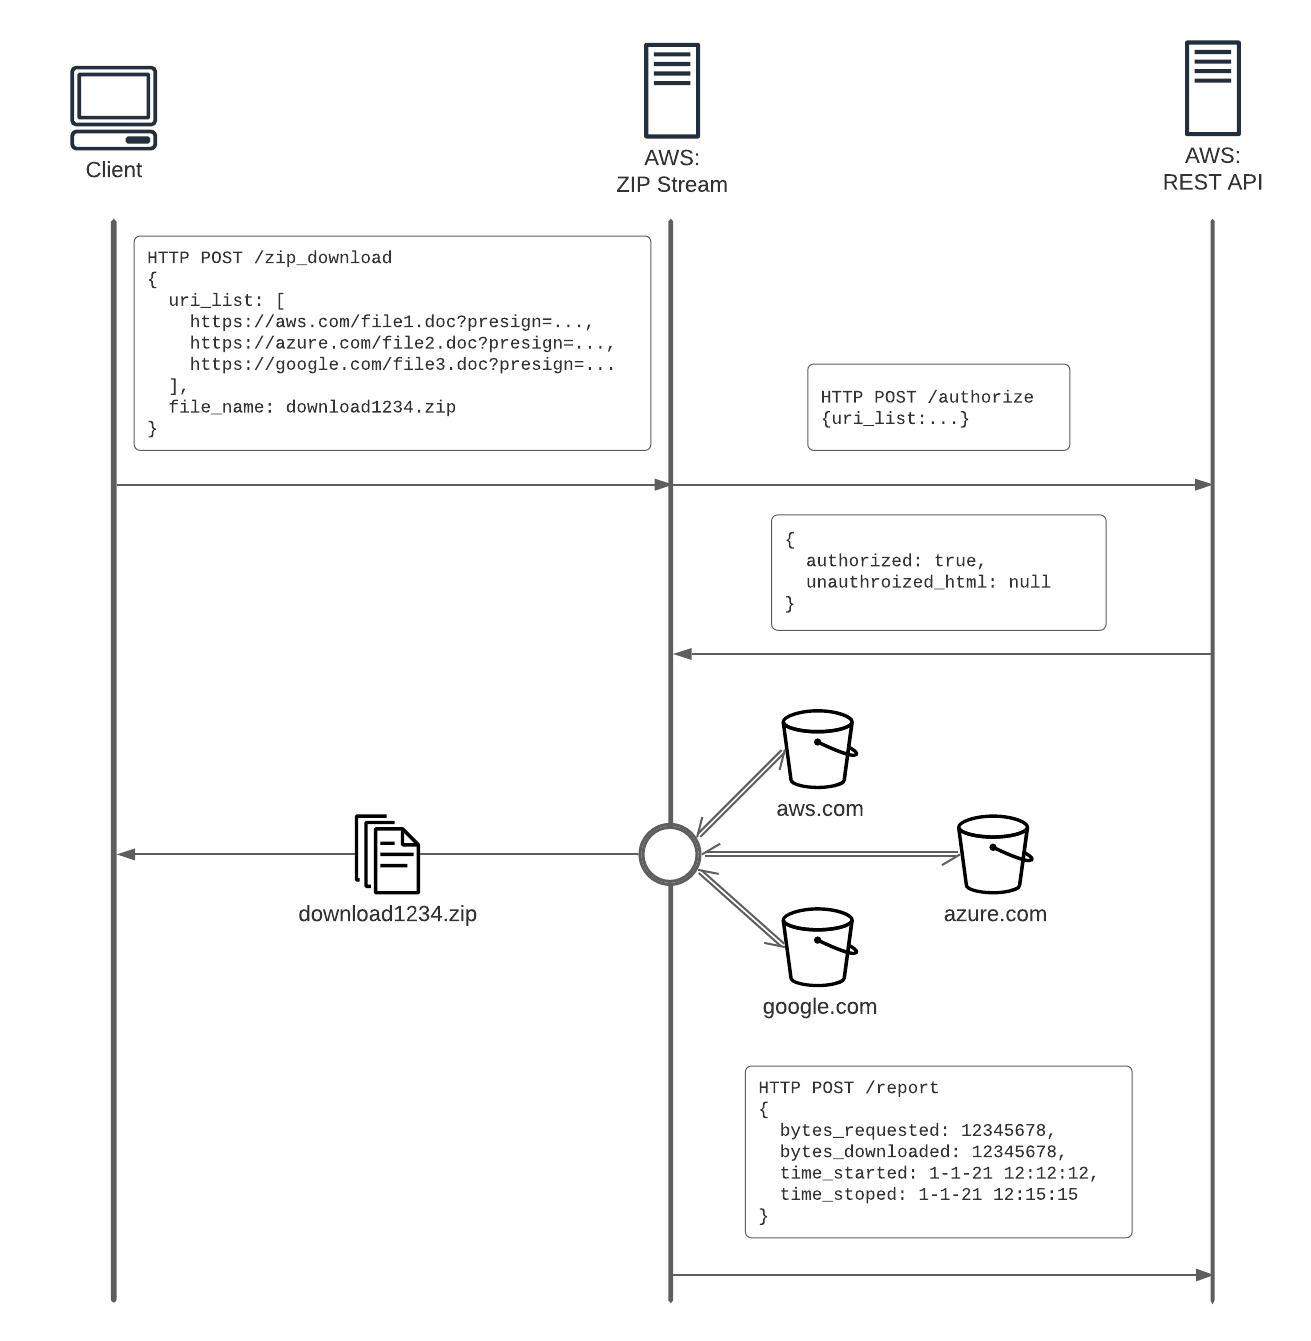
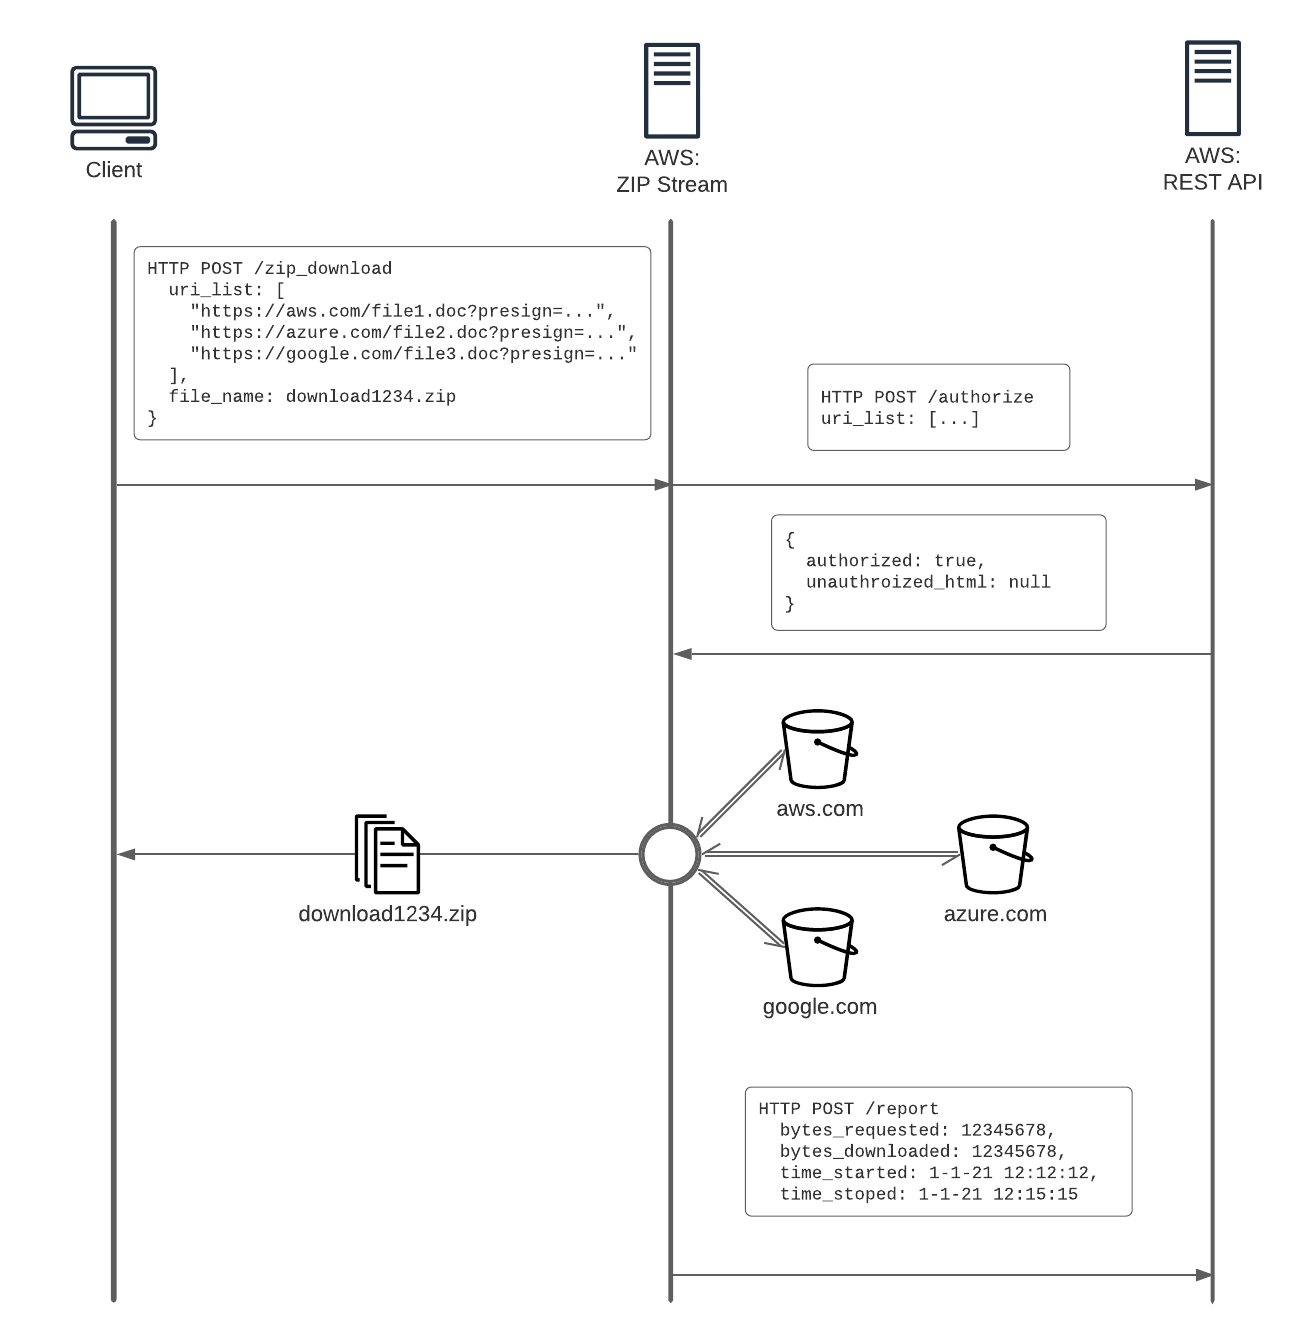
form params, request checks, static test

diff --git a/test/static/test.html b/test/static/test.html
@@ -1,0 +1,17 @@
+<!DOCTYPE html>
+<html>
+<head>
+  <meta charset="utf-8"/>
+  <title>FileSlide Streamer Test</title>
+</head> 
+<body>
+  <form action="http://127.0.0.1:9292/download" accept-charset="UTF-8" method="post">
+    <input type="hidden" name="file_name" id="file_name" value="test_zip.zip" />
+    <input type="hidden" name="uri_list" id="uri_list" value="[
+        &quot;https://s3.wasabisys.com/fs-zip-download/Test1.pdf&quot;,
+        &quot;https://s3.wasabisys.com/fs-zip-download/Test2.pkg&quot;,
+        &quot;https://s3.wasabisys.com/fs-zip-download/Test3.dmg&quot;
+      ]" /> 
+    <input type="submit" value="Download"/>
+  </form>
+</body>

diff --git a/test/spec/lib/fileslide_streamer_spec.rb b/test/spec/lib/fileslide_streamer_spec.rb
@@ -10,7 +10,7 @@ RSpec.describe FileslideStreamer do
     file_provider_app = File.expand_path(__dir__ + '/../file_provider.rb')
     command = "bundle exec ruby #{file_provider_app}"
     @provider_pid = spawn(command)
-    sleep 1 # server needs some time to start up
+    sleep 3 # server needs some time to start up
   end
 
   after :all do
@@ -32,37 +32,39 @@ RSpec.describe FileslideStreamer do
   end
 
   context '/download' do
-    it 'fails with 400 if the request is not valid JSON' do
-      post '/download', "I'm not valid json"
+    it 'fails with 400 if the request file_name is blank' do
+      post '/download', uri_list: ["http://localhost:9293/random_bytes1.bin"].to_json
       expect(last_response.status).to eq 400
+      expect(last_response.body).to eq 'Request must include non-empty file_name and uri_list parameters'
     end
 
-    it 'fails with 400 if the request JSON does not contain a file_name key' do
-      post '/download', {uri_list: []}.to_json
+    it 'fails with 400 if the request uri_list is blank' do
+      post '/download', file_name: 'files.zip'
       expect(last_response.status).to eq 400
+      expect(last_response.body).to eq 'Request must include non-empty file_name and uri_list parameters'
     end
 
-    it 'fails with 400 if the request JSON does not contain a uri_list key' do
-      post '/download', {file_name: 'files.zip'}.to_json
+    it 'fails with 400 if the request uri_list is not valid JSON' do
+      post '/download', file_name: 'files.zip', uri_list: "I'm not valid json"
       expect(last_response.status).to eq 400
+      expect(last_response.body).to eq 'uri_list is not a valid JSON array'
     end
 
     it 'fails with 400 if some of the uris in the request occur more than once' do
-      post '/download', {file_name: 'files.zip', uri_list: [
+      post '/download', file_name: 'files.zip', uri_list: [
         "http://localhost:9293/random_bytes1.bin",
         "http://localhost:9293/random_bytes1.bin",
-        "http://localhost:9293/random_bytes2.bin",
-      ]}.to_json
-
+        "http://localhost:9293/random_bytes2.bin"
+      ].to_json
       expect(last_response.status).to eq 400
-      expect(last_response.body).to eq 'Duplicate filenames found'
+      expect(last_response.body).to eq 'Duplicate URIs found'
     end
 
     it 'fails with 403 and the returned html if the upstream API does not authorize the download' do
       expect_any_instance_of(UpstreamAPI).to receive(:verify_uri_list).
         and_return({authorized: false, unauthorized_html: "NOT ALLOWED"})
 
-      post '/download', {file_name: 'files.zip', uri_list: ["http://example.com/not_allowed_file"]}.to_json
+      post '/download', file_name: 'files.zip', uri_list: ["http://example.com/not_allowed_file"].to_json
 
       expect(last_response.status).to eq 403
       expect(last_response.body).to eq "NOT ALLOWED"
@@ -72,29 +74,29 @@ RSpec.describe FileslideStreamer do
       expect_any_instance_of(UpstreamAPI).to receive(:verify_uri_list).
         and_return({authorized: true, unauthorized_html: nil})
 
-      post '/download', {file_name: 'files.zip', uri_list: [
+      post '/download', file_name: 'files.zip', uri_list: [
         # hostnames ending with .invalid are guarantueed not to exist per RFC 6761
-        "http://example.invalid/allowed_but_unavailable_file1",
-        "http://example.invalid/allowed_but_unavailable_file2",
+        "http://localhost:9999/allowed_but_unavailable_file1",
+        "http://localhost:9999/allowed_but_unavailable_file2",
         "http://localhost:9293/random_bytes1.bin",
-      ]}.to_json
+      ].to_json
 
       expect(last_response.status).to eq 502
       expect(last_response.body).to include '502 Bad Gateway'
       expect(last_response.body).to include 'The following files could not be fetched:'
-      expect(last_response.body).to include 'http://example.invalid/allowed_but_unavailable_file1 [503 Service Unavailable]'
-      expect(last_response.body).to include 'http://example.invalid/allowed_but_unavailable_file2 [503 Service Unavailable]'
+      expect(last_response.body).to include 'http://localhost:9999/allowed_but_unavailable_file1 [503 Service Unavailable]'
+      expect(last_response.body).to include 'http://localhost:9999/allowed_but_unavailable_file2 [503 Service Unavailable]'
     end
 
     it 'fails with 502 and a list of failed URIs if any of the URIs are not 200/206' do
       expect_any_instance_of(UpstreamAPI).to receive(:verify_uri_list).
         and_return({authorized: true, unauthorized_html: nil})
 
-      post '/download', {file_name: 'files.zip', uri_list: [
+      post '/download', file_name: 'files.zip', uri_list: [
         "http://example.com/allowed_but_unavailable_file1",
         "http://example.com/allowed_but_unavailable_file2",
         "http://localhost:9293/random_bytes1.bin",
-      ]}.to_json
+      ].to_json
 
       expect(last_response.status).to eq 502
       expect(last_response.body).to include '502 Bad Gateway'
@@ -109,7 +111,7 @@ RSpec.describe FileslideStreamer do
           and_return({authorized: true, unauthorized_html: nil})
         expect_any_instance_of(UpstreamAPI).to receive(:report)
 
-        post '/download', {file_name: 'zero_files.zip', uri_list: []}.to_json
+        post '/download', file_name: 'zero_files.zip', uri_list: [].to_json
 
         expect(last_response.status).to eq 200
         expect(last_response.headers["Content-Disposition"]).to eq "attachment; filename=\"zero_files.zip\""
@@ -130,11 +132,11 @@ RSpec.describe FileslideStreamer do
           and_return({authorized: true, unauthorized_html: nil})
         expect_any_instance_of(UpstreamAPI).to receive(:report)
 
-        post '/download', {file_name: 'three_files.zip', uri_list: [
+        post '/download', file_name: 'three_files.zip', uri_list: [
           "http://localhost:9293/random_bytes1.bin",
           "http://localhost:9293/random_bytes2.bin",
           "http://localhost:9293/random_bytes3.bin",
-        ]}.to_json
+        ].to_json
 
         expect(last_response.status).to eq 200
         expect(last_response.headers["Content-Disposition"]).to eq "attachment; filename=\"three_files.zip\""
@@ -168,9 +170,9 @@ RSpec.describe FileslideStreamer do
         expect_any_instance_of(UpstreamAPI).to receive(:report)
         expect_any_instance_of(ZipTricks::Streamer).to receive(:write_stored_file).and_raise(HTTP::Error.new("BOOM!"))
 
-        post '/download', {file_name: 'one_file.zip', uri_list: [
+        post '/download', file_name: 'one_file.zip', uri_list: [
           "http://localhost:9293/random_bytes1.bin",
-        ]}.to_json
+        ].to_json
       end
   end
 end

diff --git a/lib/fileslide_streamer.rb b/lib/fileslide_streamer.rb
@@ -16,16 +16,23 @@ class FileslideStreamer < Sinatra::Base
 
   post "/download" do
     # Parse the request
-    request.body.rewind
-    request_payload = JSON.parse(request.body.read, symbolize_names: true)
-    zip_filename = request_payload.fetch(:file_name)
-    uri_list = request_payload.fetch(:uri_list)
-    halt 400, 'Duplicate filenames found' unless uri_list.uniq.length == uri_list.length
+
+    puts "** params[:file_name]=#{params[:file_name]} params[:uri_list]=#{params[:uri_list]}"
+    
+    halt 400, 'Request must include non-empty file_name and uri_list parameters' unless (!params[:file_name].nil? && params[:file_name].length>0) && 
+      (!params[:uri_list].nil? && params[:uri_list].length>0)
+
+    zip_filename = params[:file_name]
+    uri_list = JSON.parse(params[:uri_list].gsub(/\s/,''))
+
+    halt 400, 'Duplicate URIs found' unless uri_list.uniq.length == uri_list.length
 
     # Check for auth with upstream service
     upstream = UpstreamAPI.new
     verification_result = upstream.verify_uri_list(uri_list: uri_list, file_name: zip_filename)
     halt 403, verification_result[:unauthorized_html] unless verification_result[:authorized]
+
+    puts "** URIs OK: #{uri_list}\n"
 
     # Do a head request to all the URIs to check they're available.
     # We do a range request the first byte instead of doing a HEAD request
@@ -37,6 +44,7 @@ class FileslideStreamer < Sinatra::Base
     uri_list.each do |uri|
       begin
         resp = availability_checking_http.get(uri)
+        puts "** availability_checking_http: #{uri} => #{resp.status}\n"
         unless [200,206].include? resp.status
           failed_uris << FailedUri.new(uri: uri, response_code: resp.status)
         end
@@ -52,11 +60,16 @@ class FileslideStreamer < Sinatra::Base
       halt 502, construct_error_message(failed_uris: failed_uris)
     end
 
+    puts "** zip_streamer.files.size: #{zip_streamer.files.size}\n"
+
     # Deduplicate filenames if required
     zip_streamer.deduplicate_filenames!
 
     # Pull in the URI contents and stream as zip
     http_body = zip_streamer.make_streaming_body
+
+    puts "** http_body: #{http_body.inspect}\n"
+
     headers = {
       'Content-Disposition' => "attachment; filename=\"#{zip_filename}\"",
       'X-Accel-Buffering' => 'no', # disable nginx buffering
@@ -65,7 +78,7 @@ class FileslideStreamer < Sinatra::Base
     }
     [200,headers,http_body]
   rescue JSON::ParserError, KeyError => e
-    halt 400
+    halt 400, 'uri_list is not a valid JSON array'
   rescue UpstreamAPI::UpstreamNotFoundError => e
     puts e.backtrace
     halt 500, 'Error connecting to upstream'
@@ -76,6 +89,7 @@ class FileslideStreamer < Sinatra::Base
     failed_uris.each do |f|
       resp << f.to_s
     end
+    puts resp
     resp
   end
 end

diff --git a/lib/upstream_api.rb b/lib/upstream_api.rb
@@ -11,7 +11,7 @@ class UpstreamAPI
   end
 
   def verify_uri_list(uri_list:, file_name: )
-    auth_response = @http.post("#{UPSTREAM_API_LOCATION}/authorize", json: {uri_list: uri_list, file_name: file_name})
+    auth_response = @http.post("#{UPSTREAM_API_LOCATION}/authorize", form: {uri_list: uri_list.to_json})
     unless auth_response.status.ok?
       raise UpstreamNotFoundError
     end
@@ -22,7 +22,7 @@ class UpstreamAPI
   end
 
   def report(start_time:, stop_time: , bytes_sent:, complete: )
-    @http.post("#{UPSTREAM_API_LOCATION}/report", json: {
+    @http.post("#{UPSTREAM_API_LOCATION}/report", form: {
       start_time: start_time,
       stop_time: stop_time,
       bytes_sent: bytes_sent,

diff --git a/test/spec/spec_helper.rb b/test/spec/spec_helper.rb
@@ -1,11 +1,11 @@
 require 'bundler'
 Bundler.require
-Dotenv.load
+Dotenv.load('../.env')
 
 require 'rack/test'
-require_relative('../lib/fileslide_streamer.rb')
-require_relative('../lib/upstream_api.rb')
-require_relative('../lib/zip_streamer.rb')
+require_relative('../../lib/fileslide_streamer.rb')
+require_relative('../../lib/upstream_api.rb')
+require_relative('../../lib/zip_streamer.rb')
 
 RSpec.configure do |config|
   config.include Rack::Test::Methods

diff --git a/lib/zip_streamer.rb b/lib/zip_streamer.rb
@@ -55,6 +55,7 @@ class ZipStreamer
       @files.each do |singlefile|
         zip.write_stored_file(singlefile.zip_name) do |sink|
           resp = http.get(singlefile.uri)
+          puts "zip.write_stored_file: ** #{singlefile.uri} => #{resp.status}\n"
           resp.body.each do |chunk|
             bytes_total += chunk.size
             sink.write(chunk)

diff --git a/README.md b/README.md
@@ -10,7 +10,7 @@ Install dependencies using `bundle install` and then start the server using `bun
 
 ## Testing
 
-To run the test suite, run `bundle exec rspec` from the root folder of the repo. For testing the zip streaming, the test suite covers starts up a second Puma process to deliver static files from spec/fixtures. You can extend this server with extra static files or custom endpoints as needed.
+To run the test suite, `cd test` then run `bundle exec rspec` from the root folder of the repo. For testing the zip streaming, the test suite covers starts up a second Puma process to deliver static files from spec/fixtures. You can extend this server with extra static files or custom endpoints as needed.
 
 ## Deployment
 

diff --git a/doc/requirments.md b/doc/requirments.md
@@ -2,7 +2,7 @@
 
 ## Requirements
 
-* A user makes a HTTP request directly to the app with 1 or more pre-signed file download URIs encoded as JSON
+* A user makes a HTTP post request directly to the app with 1 or more pre-signed file download URIs encoded as a JSON array
 * The app calls a REST API to ask if all of the specified URIs are authorized
 
 > The way to think about it is kind of a "Zip-As-A-Service" - just say you have given me secret links (or pre-signed URLs) to file1, file2 & file3 on wander.com. Effectively I am just passing on my secret links to a middle-man (this zip_download app) which uses these same links to download the files for me, zip them up and give me the resulting output zip file.
